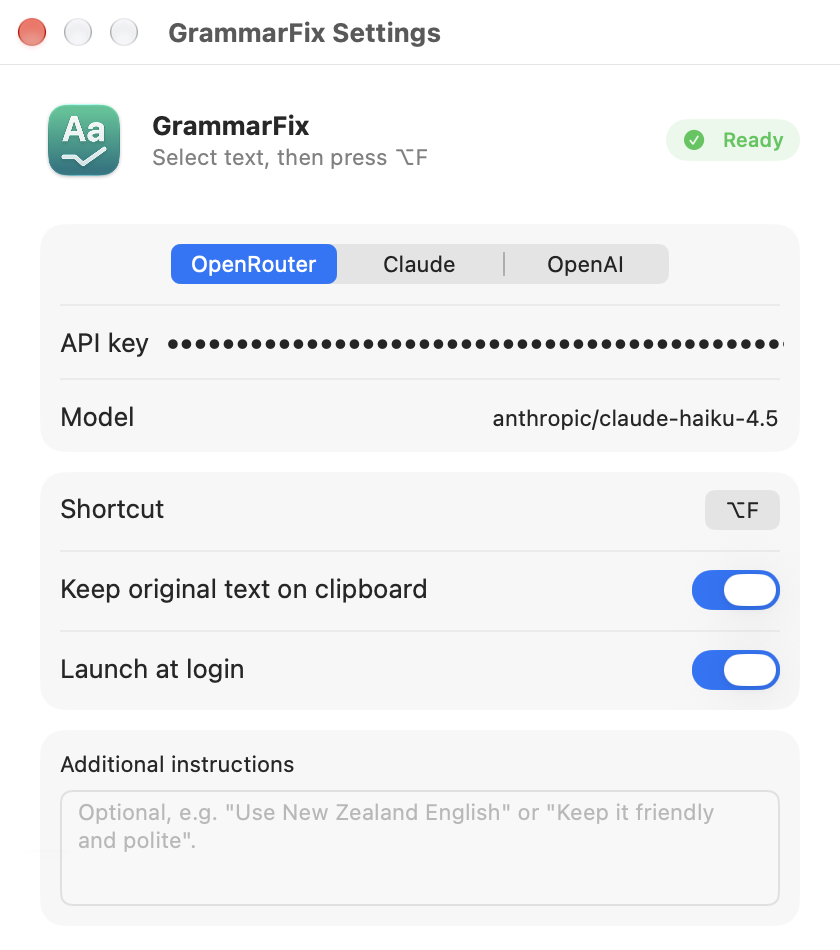
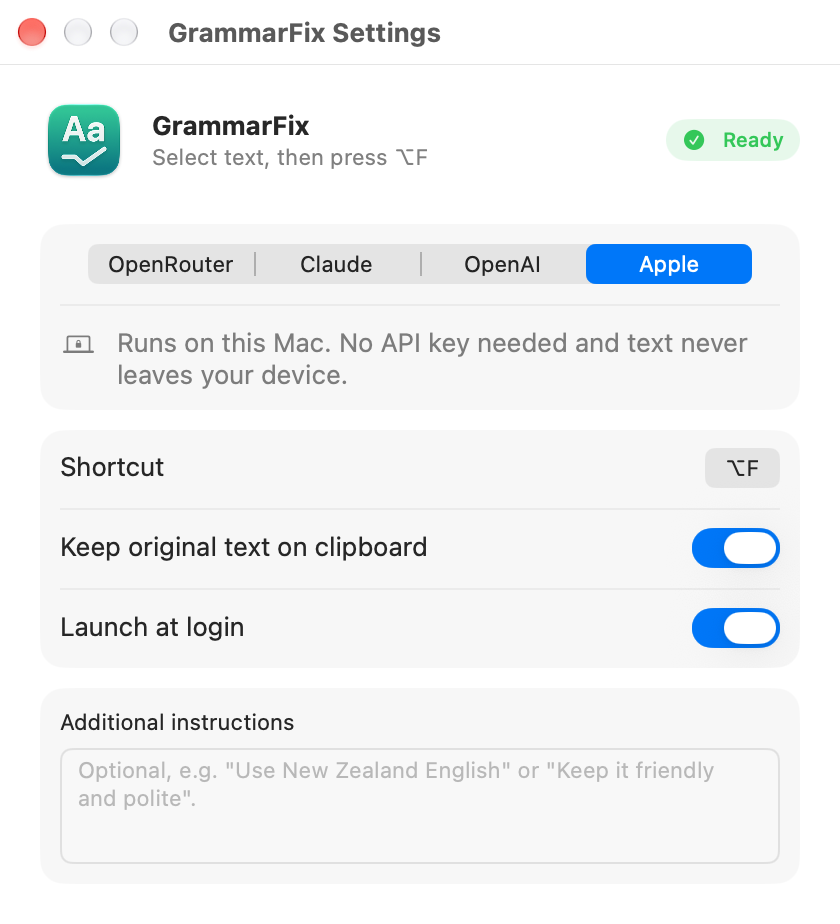
Add Apple on-device model provider
Runs locally with no API key on macOS 26 or later. It is the default on
first launch and the fallback when a provider has no key or a request fails.

diff --git a/Sources/GrammarAPI.swift b/Sources/GrammarAPI.swift
@@ -1,7 +1,10 @@
 import Foundation
+#if canImport(FoundationModels)
+import FoundationModels
+#endif
 
 enum Provider: String, CaseIterable, Identifiable {
-    case openRouter, anthropic, openAI
+    case openRouter, anthropic, openAI, appleLocal
 
     var id: String { rawValue }
 
@@ -10,16 +13,27 @@ enum Provider: String, CaseIterable, Identifiable {
         case .openRouter: return "OpenRouter"
         case .anthropic: return "Claude (Anthropic)"
         case .openAI: return "OpenAI"
+        case .appleLocal: return "Apple (on-device)"
         }
     }
 
-    var shortName: String { self == .anthropic ? "Claude" : name }
+    var shortName: String {
+        switch self {
+        case .anthropic: return "Claude"
+        case .appleLocal: return "Apple"
+        default: return name
+        }
+    }
+
+    /// The on-device model runs locally, so it has no key or model choice.
+    var isLocal: Bool { self == .appleLocal }
 
     var defaultModel: String {
         switch self {
         case .openRouter: return "openai/gpt-4o-mini"
         case .anthropic: return "claude-opus-5"
         case .openAI: return "gpt-5-mini"
+        case .appleLocal: return "default"
         }
     }
 
@@ -28,6 +42,7 @@ enum Provider: String, CaseIterable, Identifiable {
         case .openRouter: return "sk-or-…"
         case .anthropic: return "sk-ant-…"
         case .openAI: return "sk-…"
+        case .appleLocal: return ""
         }
     }
 
@@ -54,9 +69,7 @@ enum GrammarAPI {
     static func fixGrammar(_ text: String) async throws -> String {
         let settings = Settings.shared
         let provider = settings.provider
-        guard !settings.apiKey.isEmpty else {
-            throw APIError(message: "No \(provider.name) API key set. Open Settings to add one.")
-        }
+        let appleAvailable = appleLocalUnavailableReason() == nil
 
         var system = systemPrompt
         let extra = settings.extraInstructions.trimmingCharacters(in: .whitespacesAndNewlines)
@@ -64,13 +77,30 @@ enum GrammarAPI {
             system += "\n\nAdditional style instructions from the user:\n" + extra
         }
 
+        // Without a key, or when the provider fails, fall back to the on-device model.
         let content: String
-        switch provider {
-        case .anthropic:
-            content = try await anthropic(system: system, text: text, key: settings.apiKey, model: settings.model)
-        case .openRouter, .openAI:
-            content = try await chatCompletions(provider, system: system, text: text,
-                                                key: settings.apiKey, model: settings.model)
+        if provider.isLocal {
+            content = try await appleLocal(system: system, text: text)
+        } else if settings.apiKey.isEmpty {
+            guard appleAvailable else {
+                throw APIError(message: "No \(provider.name) API key set. Open Settings to add one.")
+            }
+            content = try await appleLocal(system: system, text: text)
+        } else {
+            do {
+                switch provider {
+                case .anthropic:
+                    content = try await anthropic(system: system, text: text,
+                                                  key: settings.apiKey, model: settings.model)
+                default:
+                    content = try await chatCompletions(provider, system: system, text: text,
+                                                        key: settings.apiKey, model: settings.model)
+                }
+            } catch {
+                guard appleAvailable, !(error is CancellationError) else { throw error }
+                // If the fallback fails too, the provider's error is the useful one.
+                do { content = try await appleLocal(system: system, text: text) } catch _ { throw error }
+            }
         }
 
         // Keep the selection's surrounding whitespace so pasting doesn't eat spaces/newlines.
@@ -82,6 +112,8 @@ enum GrammarAPI {
     static func fetchModels(_ provider: Provider, key: String) async throws -> [String] {
         var request: URLRequest
         switch provider {
+        case .appleLocal:
+            return []
         case .openRouter:
             request = URLRequest(url: URL(string: "https://openrouter.ai/api/v1/models")!)
         case .anthropic:
@@ -175,6 +207,48 @@ enum GrammarAPI {
             throw APIError(message: "The selection is too long to fix in one go.")
         }
         return content
+    }
+
+    /// Returns nil when the on-device model can be used, otherwise the reason it can't.
+    static func appleLocalUnavailableReason() -> String? {
+        #if canImport(FoundationModels)
+        guard #available(macOS 26.0, *) else { return "Requires macOS 26 or later." }
+        switch SystemLanguageModel.default.availability {
+        case .available:
+            return nil
+        case .unavailable(.deviceNotEligible):
+            return "This Mac doesn't support Apple Intelligence."
+        case .unavailable(.appleIntelligenceNotEnabled):
+            return "Turn on Apple Intelligence in System Settings."
+        case .unavailable(.modelNotReady):
+            return "The on-device model is still downloading. Try again later."
+        case .unavailable:
+            return "The on-device model is unavailable."
+        }
+        #else
+        return "Requires macOS 26 or later."
+        #endif
+    }
+
+    private static func appleLocal(system: String, text: String) async throws -> String {
+        if let reason = appleLocalUnavailableReason() { throw APIError(message: reason) }
+        #if canImport(FoundationModels)
+        guard #available(macOS 26.0, *) else { throw APIError(message: "Requires macOS 26 or later.") }
+        let session = LanguageModelSession(instructions: system)
+        do {
+            let response = try await session.respond(to: text, options: GenerationOptions(temperature: 0))
+            guard !response.content.isEmpty else {
+                throw APIError(message: "The on-device model returned an empty response.")
+            }
+            return response.content
+        } catch LanguageModelSession.GenerationError.exceededContextWindowSize {
+            throw APIError(message: "The selection is too long for the on-device model.")
+        } catch LanguageModelSession.GenerationError.guardrailViolation {
+            throw APIError(message: "The on-device model declined to process this text.")
+        }
+        #else
+        throw APIError(message: "Requires macOS 26 or later.")
+        #endif
     }
 
     // MARK: - HTTP

diff --git a/Sources/SettingsView.swift b/Sources/SettingsView.swift
@@ -28,9 +28,20 @@ struct SettingsView: View {
                         models = []
                         loadModels()
                     }
-                    SecureField("API key", text: $settings.apiKey, prompt: Text(settings.provider.keyPlaceholder))
-                    TextField("Model", text: $settings.model, prompt: Text(settings.provider.defaultModel))
-                    modelSuggestions
+                    if settings.provider.isLocal {
+                        if let reason = GrammarAPI.appleLocalUnavailableReason() {
+                            Label(reason, systemImage: "exclamationmark.triangle.fill")
+                                .foregroundStyle(.orange)
+                        } else {
+                            Label("Runs on this Mac. No API key needed and text never leaves your device.",
+                                  systemImage: "lock.laptopcomputer")
+                                .foregroundStyle(.secondary)
+                        }
+                    } else {
+                        SecureField("API key", text: $settings.apiKey, prompt: Text(settings.provider.keyPlaceholder))
+                        TextField("Model", text: $settings.model, prompt: Text(settings.provider.defaultModel))
+                        modelSuggestions
+                    }
                 }
 
                 Section {

diff --git a/Sources/Settings.swift b/Sources/Settings.swift
@@ -50,8 +50,14 @@ final class Settings: ObservableObject {
 
     var onShortcutChange: (() -> Void)?
 
+    /// Apple on-device on first launch; OpenRouter if it's unavailable or a key was already saved.
+    private static var initialProvider: Provider {
+        let hasOpenRouterKey = !(Keychain.get(account: Provider.openRouter.keychainAccount) ?? "").isEmpty
+        return !hasOpenRouterKey && GrammarAPI.appleLocalUnavailableReason() == nil ? .appleLocal : .openRouter
+    }
+
     private init() {
-        let provider = Provider(rawValue: defaults.string(forKey: "provider") ?? "") ?? .openRouter
+        let provider = Provider(rawValue: defaults.string(forKey: "provider") ?? "") ?? Settings.initialProvider
         self.provider = provider
         apiKey = Keychain.get(account: provider.keychainAccount) ?? ""
         model = defaults.string(forKey: provider.modelDefaultsKey) ?? provider.defaultModel

diff --git a/Sources/AppDelegate.swift b/Sources/AppDelegate.swift
@@ -18,7 +18,11 @@ final class AppDelegate: NSObject, NSApplicationDelegate {
         Settings.shared.onShortcutChange = { [weak self] in self?.registerHotKey() }
         registerHotKey()
 
-        if Settings.shared.apiKey.isEmpty { openSettings() }
+        let settings = Settings.shared
+        if !settings.provider.isLocal && settings.apiKey.isEmpty
+            && GrammarAPI.appleLocalUnavailableReason() != nil {
+            openSettings()
+        }
     }
 
     private func registerHotKey() {

diff --git a/README.md b/README.md
@@ -9,19 +9,22 @@ Select some text, press the shortcut (⌃⌥G by default), and the selection is 
 ## Features
 
 - Works in any app that supports copy and paste
-- Bring your own API key for OpenRouter, Claude (Anthropic) or OpenAI
+- Works out of the box with Apple's on-device model: no API key, no account, and your text never leaves your Mac (macOS 26 or later with Apple Intelligence)
+- Or bring your own API key for OpenRouter, Claude (Anthropic) or OpenAI
+- Falls back to the on-device model when a provider has no key or a request fails
 - Pick any model, with a searchable model list per provider
 - Configurable global shortcut, with a check against macOS system shortcuts
 - Optional extra instructions, e.g. "Use New Zealand English" or "Keep it friendly and polite"
 - Keeps your original text on the clipboard after a fix, so you can paste it back if you don't like the result
 - API keys are stored in the macOS Keychain
-- About 900 lines of Swift, no dependencies, no Xcode project
+- About 1,000 lines of Swift, no dependencies, no Xcode project
 
 ## Requirements
 
 - macOS 13 (Ventura) or later
-- Xcode or the Xcode Command Line Tools (`xcode-select --install`) to build
-- An API key from [OpenRouter](https://openrouter.ai/keys), [Anthropic](https://platform.claude.com/) or [OpenAI](https://platform.openai.com/api-keys)
+- For the Apple on-device model: macOS 26 or later on a Mac with Apple Intelligence turned on
+- For the other providers: an API key from [OpenRouter](https://openrouter.ai/keys), [Anthropic](https://platform.claude.com/) or [OpenAI](https://platform.openai.com/api-keys)
+- Xcode or the Xcode Command Line Tools (`xcode-select --install`) to build from source. Building with the macOS 26 SDK (Xcode 26) or later includes the Apple provider; older SDKs build the app without it
 
 ## Download
 
@@ -56,14 +59,14 @@ CODESIGN_IDENTITY="Developer ID Application: Your Name (TEAMID)" ./build.sh --in
 ## First run
 
 1. Click the GrammarFix icon in the menu bar and open **Settings…**
-2. Choose a provider, paste your API key and pick a model.
+2. Choose a provider. **Apple** is selected by default when it's available and needs no setup. For OpenRouter, Claude or OpenAI, paste your API key and pick a model.
 3. Click **Grant Access…** and enable GrammarFix under System Settings → Privacy & Security → Accessibility. The app needs this to send ⌘C and ⌘V to the app you're typing in.
 
 ## How it works
 
 1. A global hotkey (Carbon `RegisterEventHotKey`) fires.
 2. GrammarFix sends ⌘C to the frontmost app and reads the selection from the clipboard.
-3. The text goes to your chosen provider with a fixed system prompt plus your extra instructions.
+3. The text goes to your chosen provider with a fixed system prompt plus your extra instructions. If that provider has no key or the request fails, the Apple on-device model is used instead when it's available.
 4. The corrected text is put on the clipboard and pasted with ⌘V.
 5. The clipboard is then set to your original text (or restored to what it held before, if you turn that option off).
 
@@ -71,7 +74,7 @@ CODESIGN_IDENTITY="Developer ID Application: Your Name (TEAMID)" ./build.sh --in
 | --- | --- |
 | `Sources/AppDelegate.swift` | Menu bar item, menu, settings window |
 | `Sources/TextFixer.swift` | Copy, fix and paste flow; clipboard handling |
-| `Sources/GrammarAPI.swift` | Providers, system prompt, HTTP requests |
+| `Sources/GrammarAPI.swift` | Providers, system prompt, HTTP requests, on-device model |
 | `Sources/HotKey.swift` | Global hotkey registration and conflict check |
 | `Sources/Settings.swift` | Preferences and Keychain storage |
 | `Sources/SettingsView.swift` | SwiftUI settings window and shortcut recorder |
@@ -79,17 +82,18 @@ CODESIGN_IDENTITY="Developer ID Application: Your Name (TEAMID)" ./build.sh --in
 
 ## Privacy
 
-- The text you select is sent to the provider you chose (OpenRouter, Anthropic or OpenAI) and to nobody else. Their privacy and data retention terms apply.
+- The text you select is sent to the provider you chose (OpenRouter, Anthropic or OpenAI) and to nobody else. Their privacy and data retention terms apply. With the Apple on-device provider, the text never leaves your Mac.
 - GrammarFix has no analytics, no telemetry and no server of its own.
 - API keys are stored in your login Keychain and are only sent to the matching provider.
-- Be careful with sensitive text: anything you select when you press the shortcut leaves your machine.
+- Be careful with sensitive text: unless you use the Apple on-device provider, anything you select when you press the shortcut leaves your machine.
 
 ## Limitations
 
 - Apps that block synthetic copy/paste, and secure input fields such as password boxes, won't work.
 - Only plain text is corrected; rich formatting inside the selection (bold, links) is replaced by plain text.
+- The Apple on-device model is small. It's fast and private, but less accurate than the cloud models on subtle grammar, and long selections can exceed its context window.
 - Shortcut conflicts with other third-party apps can't be detected, only conflicts with macOS system shortcuts.
-- The app isn't notarised. If you distribute a build, other Macs will show a Gatekeeper warning unless you sign it with a Developer ID and notarise it.
+- Builds from source aren't notarised. If you distribute one, other Macs will show a Gatekeeper warning unless you sign it with a Developer ID and notarise it.
 
 ## Contributing
 

diff --git a/CONTRIBUTING.md b/CONTRIBUTING.md
@@ -23,6 +23,8 @@ There is no Xcode project and no package manager. The app is compiled with `swif
 
 Providers live in `Sources/GrammarAPI.swift`. Add a case to `Provider`, fill in its name, default model and key placeholder, then handle it in `fixGrammar` and `fetchModels`. Providers that speak the OpenAI chat completions format can reuse `chatCompletions`.
 
+The Apple on-device provider uses the FoundationModels framework, which needs the macOS 26 SDK. Keep that code behind `#if canImport(FoundationModels)` and `#available(macOS 26.0, *)` so the app still builds with older SDKs and runs on macOS 13. `build.sh` weak-links the framework when the SDK has it.
+
 ## Reporting bugs
 
 Please include your macOS version, the provider and model you used, the app you were typing in, and the error shown in the GrammarFix menu, if any. Don't include your API key.
